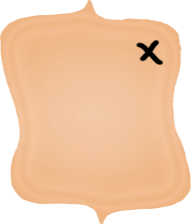
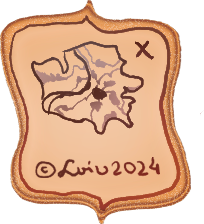
Assets update

diff --git a/resources/mainCanvas.js b/resources/mainCanvas.js
@@ -3,7 +3,7 @@
 var p; // shortcut to reference prototypes
 var lib={};var ss={};var img={};
 lib.ssMetadata = [
-		{name:"mainCanvas_atlas_1", frames: [[1988,108,51,47],[993,646,860,413],[1298,1462,222,148],[219,1318,242,241],[1579,1430,243,201],[653,1128,276,272],[1988,157,54,33],[1893,1266,151,47],[1893,1315,151,47],[1855,978,152,47],[1893,1217,152,47],[993,1061,303,567],[463,1402,414,124],[1298,1061,719,154],[219,1128,432,188],[0,0,1000,640],[0,642,991,484],[0,1128,217,464],[1988,0,52,52],[1988,54,52,52],[1855,646,191,224],[1002,0,984,644],[1298,1217,279,243],[1579,1217,312,211],[1855,872,154,104],[1824,1430,212,162]]}
+		{name:"mainCanvas_atlas_1", frames: [[1988,108,51,47],[0,642,860,413],[558,1057,222,148],[314,1057,242,241],[1664,1237,243,201],[1386,992,276,272],[1988,157,54,33],[974,1264,151,47],[1127,1268,151,47],[1888,752,152,47],[974,1215,152,47],[862,646,303,567],[558,1215,414,124],[1167,646,719,154],[1386,802,432,188],[0,0,1000,640],[1167,802,217,464],[1988,0,52,52],[1988,54,52,52],[1386,1266,204,224],[1002,0,984,644],[1664,992,279,243],[0,1057,312,211],[1888,646,154,104],[1820,802,212,162]]}
 ];
 
 
@@ -139,72 +139,65 @@ lib.ssMetadata = [
 
 
 
-(lib.FrameDecor = function() {
+(lib.Glow = function() {
 	this.initialize(ss["mainCanvas_atlas_1"]);
 	this.gotoAndStop(16);
 }).prototype = p = new cjs.Sprite();
 
 
 
-(lib.Glow = function() {
+(lib.i = function() {
 	this.initialize(ss["mainCanvas_atlas_1"]);
 	this.gotoAndStop(17);
 }).prototype = p = new cjs.Sprite();
 
 
 
-(lib.i = function() {
+(lib.i_hover = function() {
 	this.initialize(ss["mainCanvas_atlas_1"]);
 	this.gotoAndStop(18);
 }).prototype = p = new cjs.Sprite();
 
 
 
-(lib.i_hover = function() {
+(lib.InfoPopup = function() {
 	this.initialize(ss["mainCanvas_atlas_1"]);
 	this.gotoAndStop(19);
 }).prototype = p = new cjs.Sprite();
 
 
 
-(lib.InfoPopup = function() {
+(lib.PaleGlow = function() {
 	this.initialize(ss["mainCanvas_atlas_1"]);
 	this.gotoAndStop(20);
 }).prototype = p = new cjs.Sprite();
 
 
 
-(lib.PaleGlow = function() {
+(lib.PuttiLeft = function() {
 	this.initialize(ss["mainCanvas_atlas_1"]);
 	this.gotoAndStop(21);
 }).prototype = p = new cjs.Sprite();
 
 
 
-(lib.PuttiLeft = function() {
+(lib.PuttiRight = function() {
 	this.initialize(ss["mainCanvas_atlas_1"]);
 	this.gotoAndStop(22);
 }).prototype = p = new cjs.Sprite();
 
 
 
-(lib.PuttiRight = function() {
+(lib.ShipDrifter = function() {
 	this.initialize(ss["mainCanvas_atlas_1"]);
 	this.gotoAndStop(23);
 }).prototype = p = new cjs.Sprite();
 
 
 
-(lib.ShipDrifter = function() {
-	this.initialize(ss["mainCanvas_atlas_1"]);
-	this.gotoAndStop(24);
-}).prototype = p = new cjs.Sprite();
-
-
-
 (lib.ShipWobler = function() {
 	this.initialize(ss["mainCanvas_atlas_1"]);
-	this.gotoAndStop(25);
+	this.gotoAndStop(24);
 }).prototype = p = new cjs.Sprite();
 // helper functions:
 
@@ -245,7 +238,7 @@ if (reversed == null) { reversed = false; }
 	this._renderFirstFrame();
 
 }).prototype = p = new cjs.MovieClip();
-p.nominalBounds = new cjs.Rectangle(-95.5,-112,191,224);
+p.nominalBounds = new cjs.Rectangle(-95.5,-112,204,224);
 
 
 (lib.Tween59 = function(mode,startPosition,loop,reversed) {
@@ -268,7 +261,7 @@ if (reversed == null) { reversed = false; }
 	this._renderFirstFrame();
 
 }).prototype = p = new cjs.MovieClip();
-p.nominalBounds = new cjs.Rectangle(-95.5,-112,191,224);
+p.nominalBounds = new cjs.Rectangle(-95.5,-112,204,224);
 
 
 (lib.Tween54 = function(mode,startPosition,loop,reversed) {
@@ -1230,7 +1223,7 @@ if (reversed == null) { reversed = false; }
 	this._renderFirstFrame();
 
 }).prototype = p = new cjs.MovieClip();
-p.nominalBounds = new cjs.Rectangle(-96,-112,191,224);
+p.nominalBounds = new cjs.Rectangle(-96,-112,204,224);
 
 
 (lib.InfoButton = function(mode,startPosition,loop,reversed) {
@@ -1733,12 +1726,9 @@ if (reversed == null) { reversed = false; }
 	this.timeline.addTween(cjs.Tween.get({}).to({state:[{t:this.instance_1},{t:this.instance}]}).wait(79));
 
 	// FrameBG
-	this.instance_2 = new lib.FrameDecor();
-	this.instance_2.setTransform(5,5);
+	this.instance_2 = new lib.Frame();
 
-	this.instance_3 = new lib.Frame();
-
-	this.timeline.addTween(cjs.Tween.get({}).to({state:[{t:this.instance_3},{t:this.instance_2}]}).wait(79));
+	this.timeline.addTween(cjs.Tween.get(this.instance_2).wait(79));
 
 	// Effect
 	this.Effect = new lib.Effect();
@@ -1777,34 +1767,34 @@ if (reversed == null) { reversed = false; }
 	this.timeline.addTween(cjs.Tween.get(this.Anchored).wait(79));
 
 	// Cloud1
-	this.instance_4 = new lib.Cloud1();
-	this.instance_4.setTransform(1,516);
+	this.instance_3 = new lib.Cloud1();
+	this.instance_3.setTransform(1,516);
 
-	this.timeline.addTween(cjs.Tween.get(this.instance_4).wait(79));
+	this.timeline.addTween(cjs.Tween.get(this.instance_3).wait(79));
 
 	// RoamingShip
-	this.instance_5 = new lib.ShipDrifter_1("synched",0);
-	this.instance_5.setTransform(-147.35,542);
+	this.instance_4 = new lib.ShipDrifter_1("synched",0);
+	this.instance_4.setTransform(-147.35,542);
 
-	this.timeline.addTween(cjs.Tween.get(this.instance_5).to({x:1012.7},78).wait(1));
+	this.timeline.addTween(cjs.Tween.get(this.instance_4).to({x:1012.7},78).wait(1));
 
 	// Cloud2
-	this.instance_6 = new lib.Cloud2();
-	this.instance_6.setTransform(268,486);
+	this.instance_5 = new lib.Cloud2();
+	this.instance_5.setTransform(268,486);
+
+	this.timeline.addTween(cjs.Tween.get(this.instance_5).wait(79));
+
+	// WoblingShip
+	this.instance_6 = new lib.ShipWobler_1();
+	this.instance_6.setTransform(337.8,534.65,1,1,0,0,0,106,81);
 
 	this.timeline.addTween(cjs.Tween.get(this.instance_6).wait(79));
 
-	// WoblingShip
-	this.instance_7 = new lib.ShipWobler_1();
-	this.instance_7.setTransform(337.8,534.65,1,1,0,0,0,106,81);
+	// Cloud3
+	this.instance_7 = new lib.Cloud3();
+	this.instance_7.setTransform(224,452);
 
 	this.timeline.addTween(cjs.Tween.get(this.instance_7).wait(79));
-
-	// Cloud3
-	this.instance_8 = new lib.Cloud3();
-	this.instance_8.setTransform(224,452);
-
-	this.timeline.addTween(cjs.Tween.get(this.instance_8).wait(79));
 
 	this._renderFirstFrame();
 
